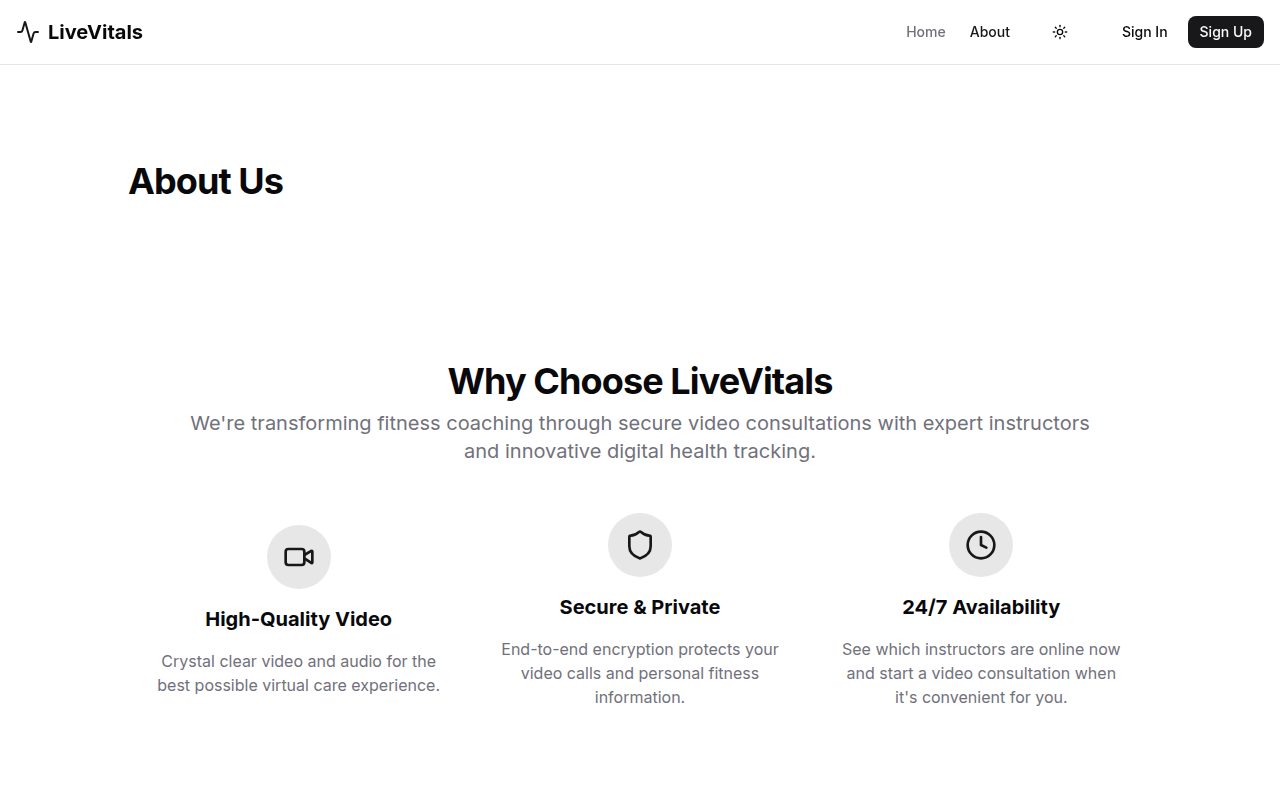
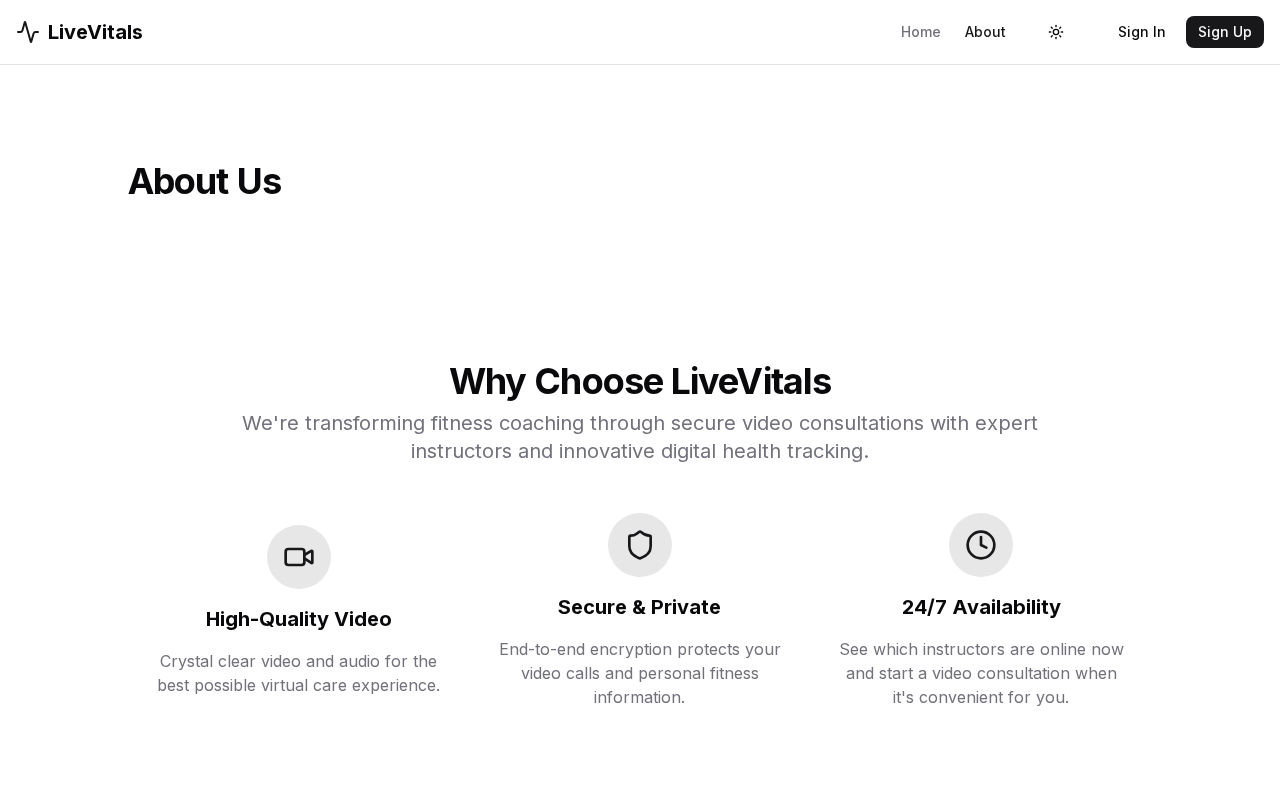
LV-106: Fix README images
* LV-106: Fix README images

The home-light screenshot was captured in the dark theme, the home-dark one before the page fade-in finished (blank page), and the WebRTC edge in the mermaid diagram was a self-loop that rendered a floating label instead of a link between the two browsers.

- Regenerate all three screenshots at 1280x800 after fonts and the 1s page fade complete; force light and dark color schemes and assert html.dark matches the file name.
- Draw the peer-to-peer link as Browser <-.->|WebRTC media| Browser2.

* LV-106: Draw the WebRTC link as a one-way dotted edge

GitHub's mermaid renderer draws the reverse arrowhead of a bidirectional edge detached from the routed dashed line, leaving a floating left arrow on the Browser node. A one-way dotted edge renders cleanly and the caption still states that media flows between both browsers.

diff --git a/README.md b/README.md
@@ -51,7 +51,7 @@ flowchart LR
     Browser["Browser"] --> Web["web: Next.js 16 standalone :3000"]
     Browser --> RT["realtime: socket.io + PeerJS :9000"]
     Browser2["Browser (other peer)"]
-    Browser <--> Browser2 -. "WebRTC media" .- Browser2
+    Browser -.->|"WebRTC media"| Browser2
 ```
 
 Both browsers connect to the realtime service (chat, presence, signalling) and exchange media peer-to-peer over WebRTC.
